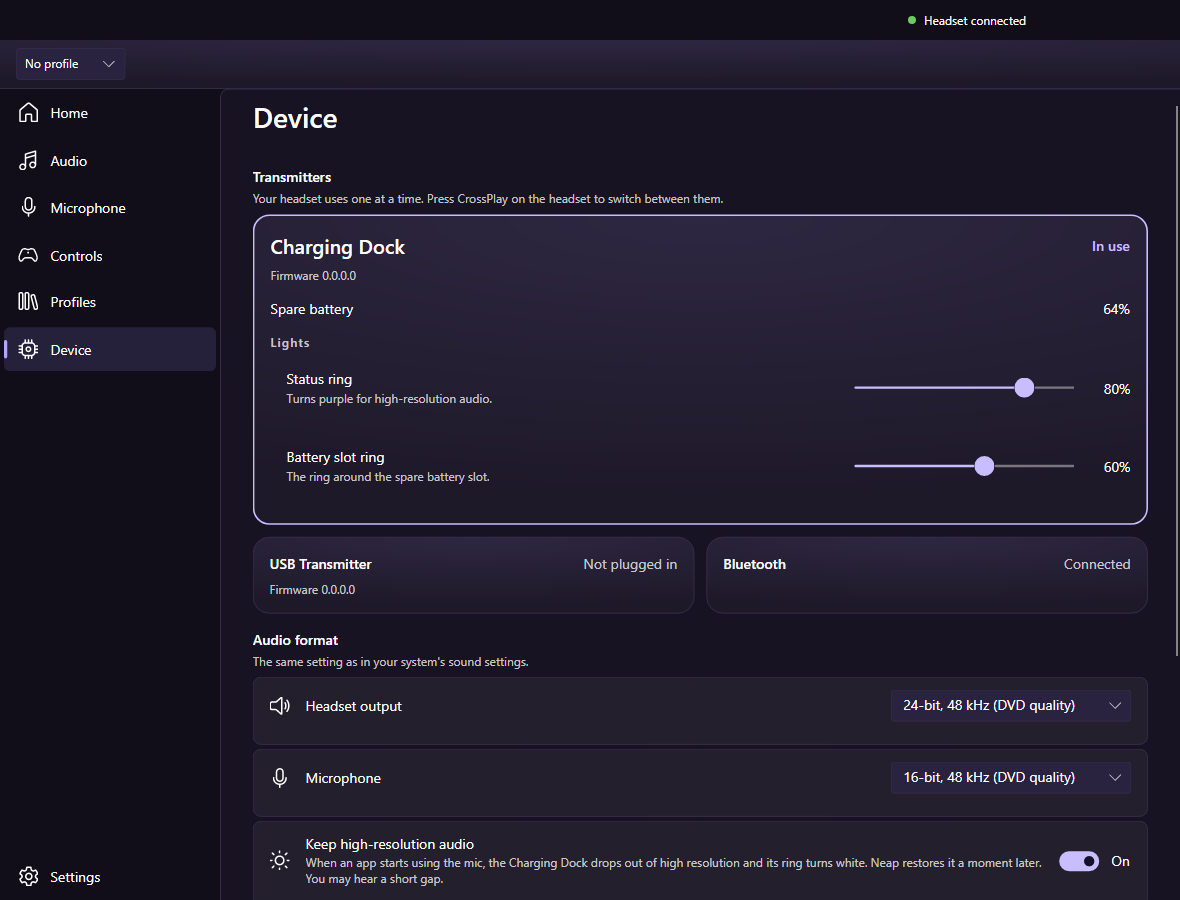
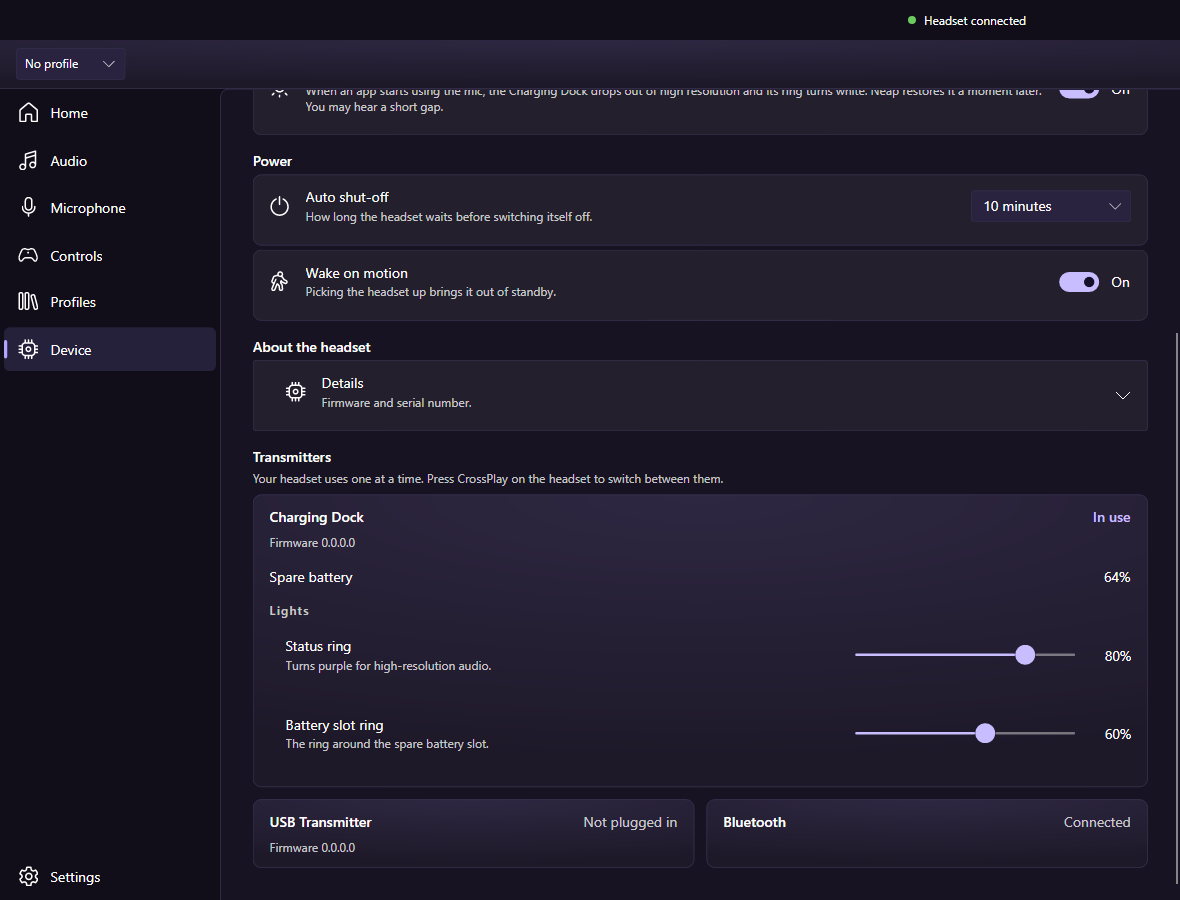
Even page padding, quieter transmitters at the foot of Device, matching profile rows
Every page now has the same 32 pixels of space on all four sides, so the title
no longer sits close to the top edge while the sides have room. On Device the
transmitters move to the end of the page, since what is plugged in is rarely
what someone comes there for, and the one in use drops its large title and
accent outline to look like the others. Profile rows were drawn as large
rounded cards; they are now the same rows as Audio format and Power, with the
same corners, padding and height. The README pictures are retaken to match.

diff --git a/src/Neap.Desktop/Controls/ProfilesSettings.cs b/src/Neap.Desktop/Controls/ProfilesSettings.cs
@@ -131,18 +131,6 @@ public sealed class ProfilesSettings : UserControl
     /// </summary>
     private Control Row(Profile profile)
     {
-        var name = new TextBlock { Text = profile.Name, TextTrimming = TextTrimming.CharacterEllipsis, TextWrapping = TextWrapping.NoWrap };
-        var caption = new TextBlock
-        {
-            Text = profile.AssignedApps.Count > 0
-                ? Strings.List(profile.AssignedApps.Select(Named).ToList())
-                : Strings.Get("Profile_NoApps"),
-            Classes = { "caption", "secondary" },
-            TextTrimming = TextTrimming.CharacterEllipsis,
-            TextWrapping = TextWrapping.NoWrap,
-        };
-        var names = new StackPanel { VerticalAlignment = VerticalAlignment.Center, Children = { name, caption } };
-
         var apps = new Button { Content = Icon("IconApps") };
         string appsName = Strings.Format("Profile_AppsTitle", profile.Name);
         AutomationProperties.SetName(apps, appsName);
@@ -167,16 +155,14 @@ public sealed class ProfilesSettings : UserControl
             Paint();
         };
 
-        var grid = new Grid { ColumnDefinitions = new ColumnDefinitions("*,Auto,Auto,Auto"), ColumnSpacing = 8 };
-        Grid.SetColumn(apps, 1);
-        Grid.SetColumn(rename, 2);
-        Grid.SetColumn(delete, 3);
-        grid.Children.Add(names);
-        grid.Children.Add(apps);
-        grid.Children.Add(rename);
-        grid.Children.Add(delete);
-
-        return Card(grid);
+        return new SettingsCard
+        {
+            Header = profile.Name,
+            Description = profile.AssignedApps.Count > 0
+                ? Strings.List(profile.AssignedApps.Select(Named).ToList())
+                : Strings.Get("Profile_NoApps"),
+            Content = new StackPanel { Orientation = Orientation.Horizontal, Spacing = 8, Children = { apps, rename, delete } },
+        };
     }
 
     /// <summary>
@@ -280,14 +266,6 @@ public sealed class ProfilesSettings : UserControl
     /// </summary>
     private Control ConfirmRow(Profile profile)
     {
-        var name = new TextBlock
-        {
-            Text = profile.Name,
-            VerticalAlignment = VerticalAlignment.Center,
-            TextTrimming = TextTrimming.CharacterEllipsis,
-            TextWrapping = TextWrapping.NoWrap,
-        };
-
         var delete = new Button { Content = Strings.Get("Profile_Delete") };
         var cancel = new Button { Content = Strings.Get("Dialog_Cancel") };
         cancel.AttachedToVisualTree += (_, _) => Dispatcher.UIThread.Post(() => cancel.Focus());
@@ -304,20 +282,10 @@ public sealed class ProfilesSettings : UserControl
             Paint();
         };
 
-        var row = new Grid { ColumnDefinitions = new ColumnDefinitions("*,Auto,Auto"), ColumnSpacing = 8 };
-        Grid.SetColumn(delete, 1);
-        Grid.SetColumn(cancel, 2);
-        row.Children.Add(name);
-        row.Children.Add(delete);
-        row.Children.Add(cancel);
-
-        return Card(row);
+        return new SettingsCard
+        {
+            Header = profile.Name,
+            Content = new StackPanel { Orientation = Orientation.Horizontal, Spacing = 8, Children = { delete, cancel } },
+        };
     }
-
-    private static Control Card(Control content) => new Border
-    {
-        Classes = { "card" },
-        Padding = new Thickness(12),
-        Child = content,
-    };
 }

diff --git a/src/Neap.Desktop/Controls/TransmittersPanel.axaml.cs b/src/Neap.Desktop/Controls/TransmittersPanel.axaml.cs
@@ -116,7 +116,7 @@ public partial class TransmittersPanel : UserControl
         {
             Text = row.Name,
             VerticalAlignment = VerticalAlignment.Center,
-            Classes = { inUse ? "cardtitle" : "bodystrong" },
+            Classes = { "bodystrong" },
         });
         var state = new TextBlock
         {
@@ -144,10 +144,7 @@ public partial class TransmittersPanel : UserControl
         if (row.Spare is { } spare) body.Children.Add(SpareLine(spare));
         if (lights is not null) body.Children.Add(lights);
 
-        // The outline on the one in use is a style, so it follows a change of theme.
-        var panel = new Border { Classes = { "card" }, Child = body };
-        if (inUse) panel.Classes.Add("inuse");
-        return panel;
+        return new Border { Classes = { "card", "compact" }, Child = body };
     }
 
     /// <summary>The Charging Dock's spare battery: its charge, or that the slot is empty.</summary>
@@ -213,7 +210,7 @@ public partial class TransmittersPanel : UserControl
         _bluetooth = new TextBlock { Classes = { "secondary" } };
         Grid.SetColumn(_bluetooth, 1);
         top.Children.Add(_bluetooth);
-        return new Border { Classes = { "card" }, Child = top };
+        return new Border { Classes = { "card", "compact" }, Child = top };
     }
 
     /// <summary>Says whether Bluetooth is connected, while the headset is answering to say so.</summary>

diff --git a/src/Neap.Desktop/HighContrast.cs b/src/Neap.Desktop/HighContrast.cs
@@ -75,7 +75,6 @@ internal static class HighContrast
         Brush("NeapChatBrush", p.Text);
         Brush("NeapChatTextBrush", p.Text);
         Brush("NeapDialTrackBrush", p.Gray);
-        Brush("NeapInUseStrokeBrush", p.Highlight);
         Brush("NeapMeterUnlitBrush", p.Gray);
         Brush("NeapTextBrush", p.Text);
         Brush("NeapTextSecondaryBrush", p.Text);
